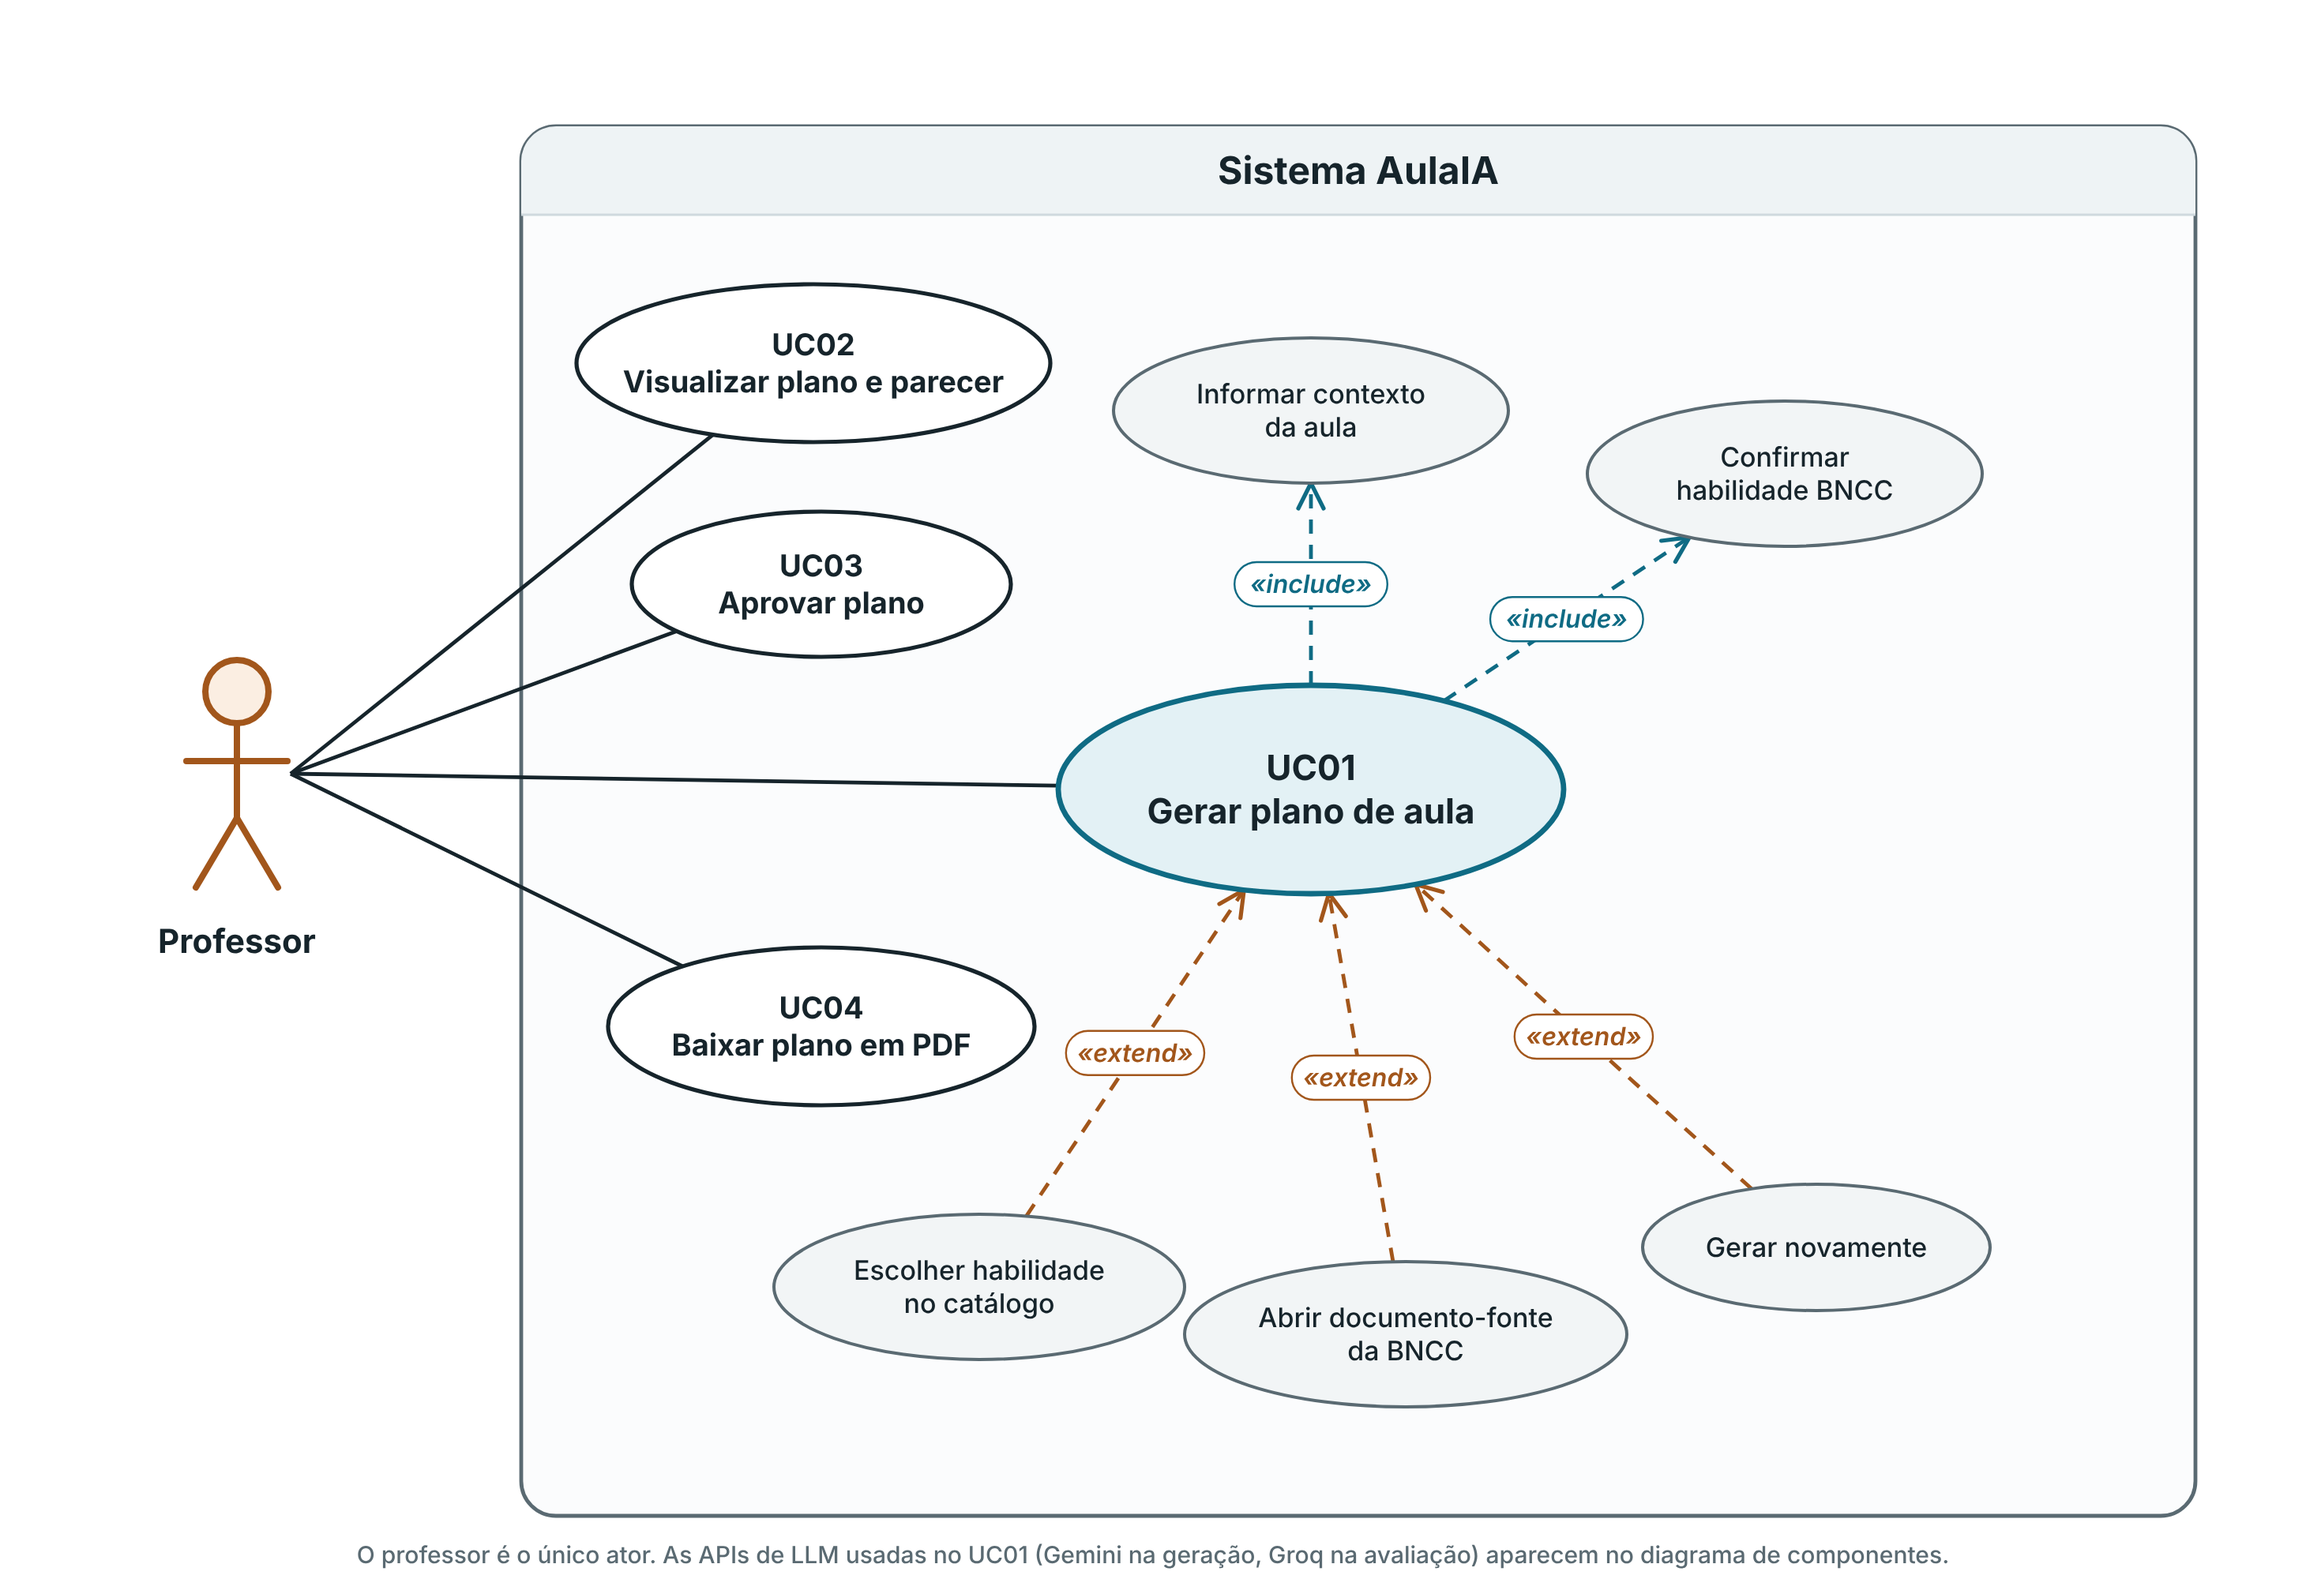
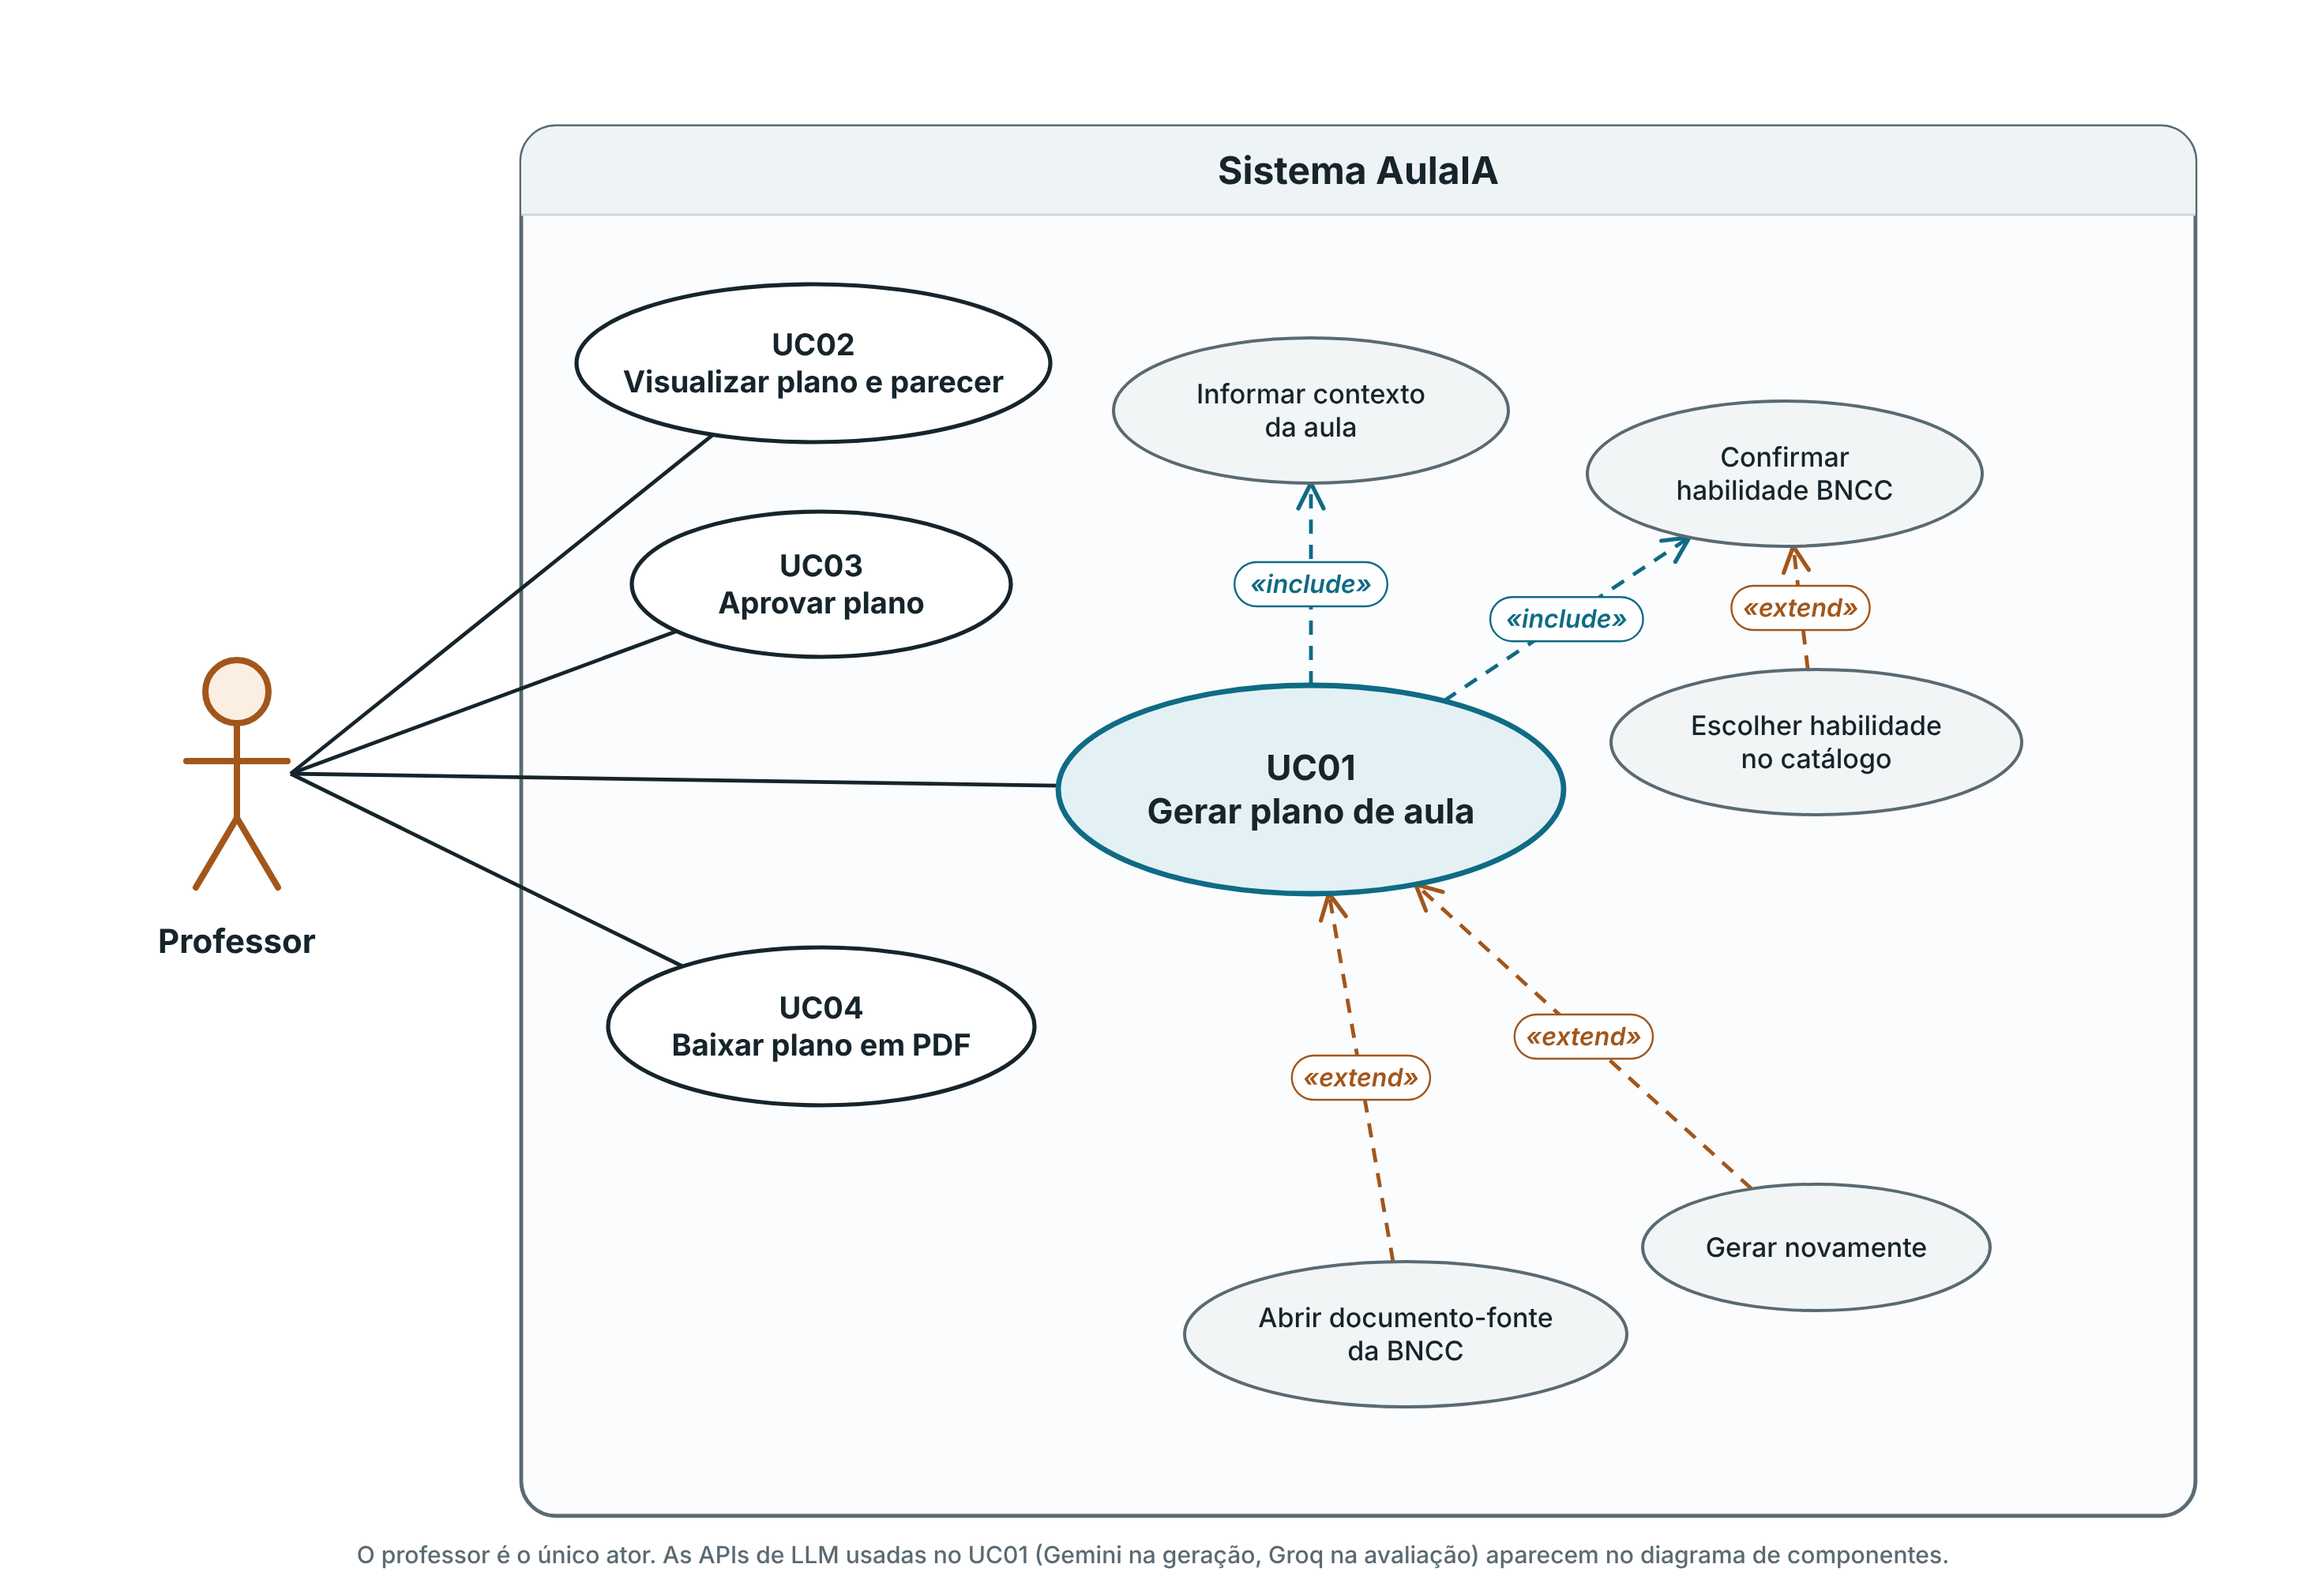
docs(diagramas): ajustes menores nas figuras do Cap. 4
visao-geral sem titulo interno, passo 5 sem tom informal, rodape cobre a entrega sem parecer;
estrutura-plano sem titulo interno; casos de uso com 'Escolher no catalogo' estendendo
'Confirmar habilidade BNCC'; estados 'cota da Groq'; PDF da pagina 1 recortado sem cabecalho/rodape do navegador.

Claude-Session: https://claude.ai/code/session_01RJpZSqmn6bczZgZ2MS9zRR

Changed region(s): [[0.7168, 0.341, 0.8414, 0.496], [0.3428, 0.744, 0.4986, 0.837], [0.4675, 0.651, 0.5298, 0.682]]

diff --git a/docs/diagramas/final/visao-geral.html b/docs/diagramas/final/visao-geral.html
@@ -30,10 +30,6 @@
   .sw{display:inline-block;width:18px;height:18px;border-radius:5px;vertical-align:-3px;margin-right:8px;border:2px solid}
 </style></head><body>
 <div class="fig">
-  <div>
-    <h1>AulaIA: do pedido do professor ao plano de aula pronto</h1>
-    <p class="sub">Planos de aula de Computação do 8º ano, alinhados à BNCC, escritos por agentes de IA e revisados por uma IA Juiz</p>
-  </div>
 
   <div class="row">
     <div class="card hum"><div class="num">1</div>
@@ -69,12 +65,12 @@
       <div class="ico"><svg width="64" height="64" viewBox="0 0 64 64" fill="none" stroke="#a2561b" stroke-width="3.5" stroke-linecap="round" stroke-linejoin="round"><path d="M16 8h22l10 10v38H16z"/><path d="M38 8v10h10"/><path d="M32 28v18M24 38l8 8 8-8"/></svg></div>
       <span class="tag">Professor</span>
       <h2>Aprova e baixa o PDF</h2>
-      <p>Lê o plano e o parecer do Juiz. Se gostar, aprova e baixa. Se não, pede para gerar de novo. <b>A decisão final é sempre dele.</b></p>
+      <p>Lê o plano e o parecer da IA Juiz. Aprova o plano e baixa o PDF ou pede uma nova geração.</p>
     </div>
   </div>
 
   <div class="loop"><svg viewBox="0 0 640 58" preserveAspectRatio="none"><path d="M560 0 V30 H80 V4" fill="none" stroke="#0f6b84" stroke-width="2.6" stroke-dasharray="7 6"/><path d="M72 12 L80 2 L88 12" fill="none" stroke="#0f6b84" stroke-width="2.6" stroke-linecap="round" stroke-linejoin="round"/></svg></div>
-  <p style="margin:-18px 0 0;font-size:16.5px;color:#0f6b84;text-align:center">Se o parecer não for favorável, o plano é escrito de novo uma vez, usando as críticas do Juiz; se nenhuma versão tiver parecer favorável, o professor recebe a que tem menos falhas graves, com um aviso.</p>
+  <p style="margin:-18px 0 0;font-size:16.5px;color:#0f6b84;text-align:center">Se o parecer não for favorável, o plano é refeito uma vez a partir das críticas da IA Juiz. Sem parecer favorável, o professor recebe a versão com menos falhas graves; se a avaliação falhar, recebe o plano sem parecer. Nos dois casos, com aviso.</p>
 
   <div class="legend">
     <span><i class="sw" style="background:var(--hum-bg);border-color:var(--hum)"></i>Pessoa (o professor decide)</span>

diff --git a/docs/diagramas/final/estrutura-plano.html b/docs/diagramas/final/estrutura-plano.html
@@ -33,7 +33,6 @@
 </style></head><body>
 <div class="fig">
   <div>
-    <h1>O que o AulaIA entrega: um plano de aula em 11 seções ligadas entre si</h1>
     <p class="sub">Modelo PlanoDeAula 2.0. Exemplo real: Ordenação, 8º ano, aula teórica de 50 minutos, recurso disponível: quadro e pincel</p>
   </div>
 

diff --git a/docs/diagramas/final/ilustradas/casos_de_uso_uml.py b/docs/diagramas/final/ilustradas/casos_de_uso_uml.py
@@ -20,7 +20,7 @@ UCS = {
     "UC04": (520, 650, 135, 50, ["UC04", "Baixar plano em PDF"], "uc"),
     "CTX": (830, 260, 125, 46, ["Informar contexto", "da aula"], "aux"),
     "CONF": (1130, 300, 125, 46, ["Confirmar", "habilidade BNCC"], "aux"),
-    "CAT": (620, 815, 130, 46, ["Escolher habilidade", "no catálogo"], "aux"),
+    "CAT": (1150, 470, 130, 46, ["Escolher habilidade", "no catálogo"], "aux"),
     "FONTE": (890, 845, 140, 46, ["Abrir documento-fonte", "da BNCC"], "aux"),
     "NOVA": (1150, 790, 110, 40, ["Gerar novamente"], "aux"),
 }
@@ -28,7 +28,7 @@ ATORES = {"P": (150, 500, ["Professor"]), "GEM": (1560, 340, ["Serviço de LLM",
           "GROQ": (1560, 660, ["Serviço de LLM", "de avaliação", "(API Groq)"])}
 ASSOC = [("P", "UC01"), ("P", "UC02"), ("P", "UC03"), ("P", "UC04"), ("UC01", "GEM"), ("UC01", "GROQ")]
 INCLUDE = [("UC01", "CTX"), ("UC01", "CONF")]
-EXTEND = [("CAT", "UC01"), ("FONTE", "UC01"), ("NOVA", "UC01")]
+EXTEND = [("CAT", "CONF"), ("FONTE", "UC01"), ("NOVA", "UC01")]
 
 
 def borda_elipse(id_, alvo):
